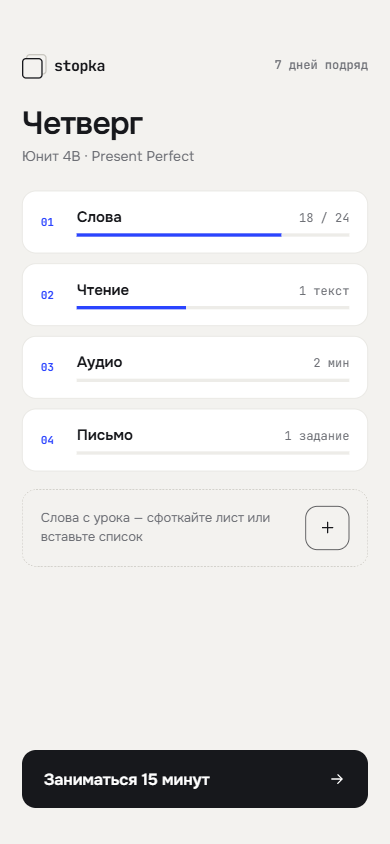
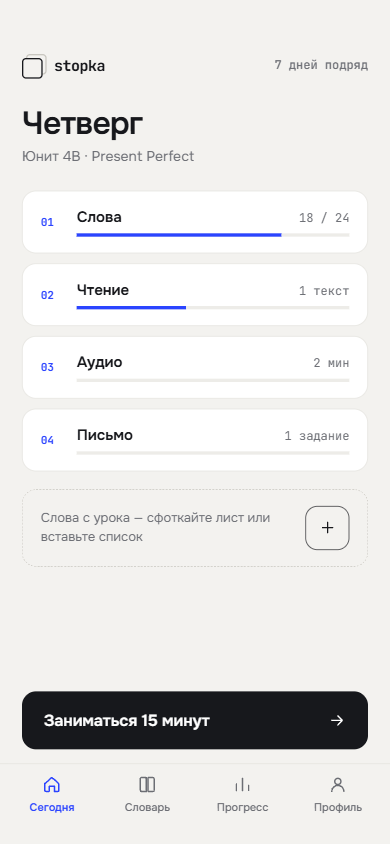
update design doc and canvas for onAccent and tab bar

Changed region(s): [[0.0308, 0.8009, 0.9538, 0.9858]]

diff --git a/DESIGN_v2.md b/DESIGN_v2.md
@@ -26,8 +26,9 @@
 | `ink` | `#17181C` | `#EDEBE6` | основной текст, главная кнопка |
 | `inkOn` | `#FFFFFF` | `#0F1012` | текст на главной кнопке |
 | `body` | `#2A2C32` | `#D9D7D2` | длинный текст для чтения |
-| `muted` | `#6E7076` | `#8E8F94` | подписи, служебное |
+| `muted` | `#6C6E74` | `#8E8F94` | подписи, служебное (оба значения проверены на 4.5:1) |
 | `accent` | `#2B44FF` | `#6E7BFF` | акцент: прогресс, фокус, ключевое действие |
+| `onAccent` | `#FFFFFF` | `#0F1012` | текст и иконки на заливке `accent` |
 | `accentTint` | `#E6E8FF` | `#232748` | подсветка грамматики, плашки |
 | `success` | `#1F7A54` | `#3DBE87` | верный ответ |
 | `danger` | `#C2412D` | `#FF6B5A` | ошибка |
@@ -79,7 +80,7 @@
 
 **Поле ввода диктанта** (`DictationField`): высота 66, радиус 14, фон `surface`, граница 1px — в покое `line`, в фокусе `ink`; каретка цветом `accent`, толщина 2, высота 30. Текст стилем `monoInput`. Под полем строка из двух подписей `monoMeta`: слева счётчик букв, справа «enter — проверить».
 
-**Главная кнопка** (`PrimaryButton`): высота 56–58, радиус 14, фон `ink`, текст `inkOn` стилем `label` 16. Если есть иконка-стрелка — прижата к правому краю. Вариант `accentPrimary` (фон `accent`, текст белый) используется только там, где действие проверяет ответ.
+**Главная кнопка** (`PrimaryButton`): высота 56–58, радиус 14, фон `ink`, текст `inkOn` стилем `label` 16. Если есть иконка-стрелка — прижата к правому краю. Вариант `accentPrimary` (фон `accent`, текст `onAccent`) используется только там, где действие проверяет ответ. Текст берётся из токена, а не хардкодится белым: на светлом акценте он белый, на тёмном — тёмный.
 
 **Вторичная кнопка** (`GhostButton`): та же высота, фон прозрачный, граница 1px `lineStrong`, текст `muted`.
 
@@ -90,6 +91,8 @@
 **Строка разбора** (`DiffRow`): две строки моношрифтом с одинаковым трекингом, «вы» и «верно», метки слева стилем `monoMeta` шириной 30. В строке «вы» расхождение красится `danger`, в строке «верно» — `accent` с подчёркиванием 2px. Буквы обязаны совпадать по вертикали: это главное требование к компоненту.
 
 **Подсветка в тексте** (`Mark`): целевая грамматика — фон `accentTint`, подчёркивание 1.5px `accent`. Незнакомое слово — фон `markBg`, подчёркивание `markLine`. Отступы 1px сверху и снизу, 2px по бокам.
+
+**Навигация.** Нижнего таб-бара в системе нет. Главный экран — хаб: с него ведут карточки занятия и две иконочные кнопки в шапке справа (словарь и профиль с настройками), 38×38 каждая. Вложенные экраны возвращают назад стрелкой или крестиком в левом верхнем углу. Курсы и юниты открываются из словаря и из карточки «слова с урока».
 
 **Шапка экрана**: логотип (два квадрата со смещением) плюс `stopka` моношрифтом слева, служебная информация справа `monoMeta`. На вложенных экранах вместо логотипа — крестик или стрелка назад в области 38×38.
 
